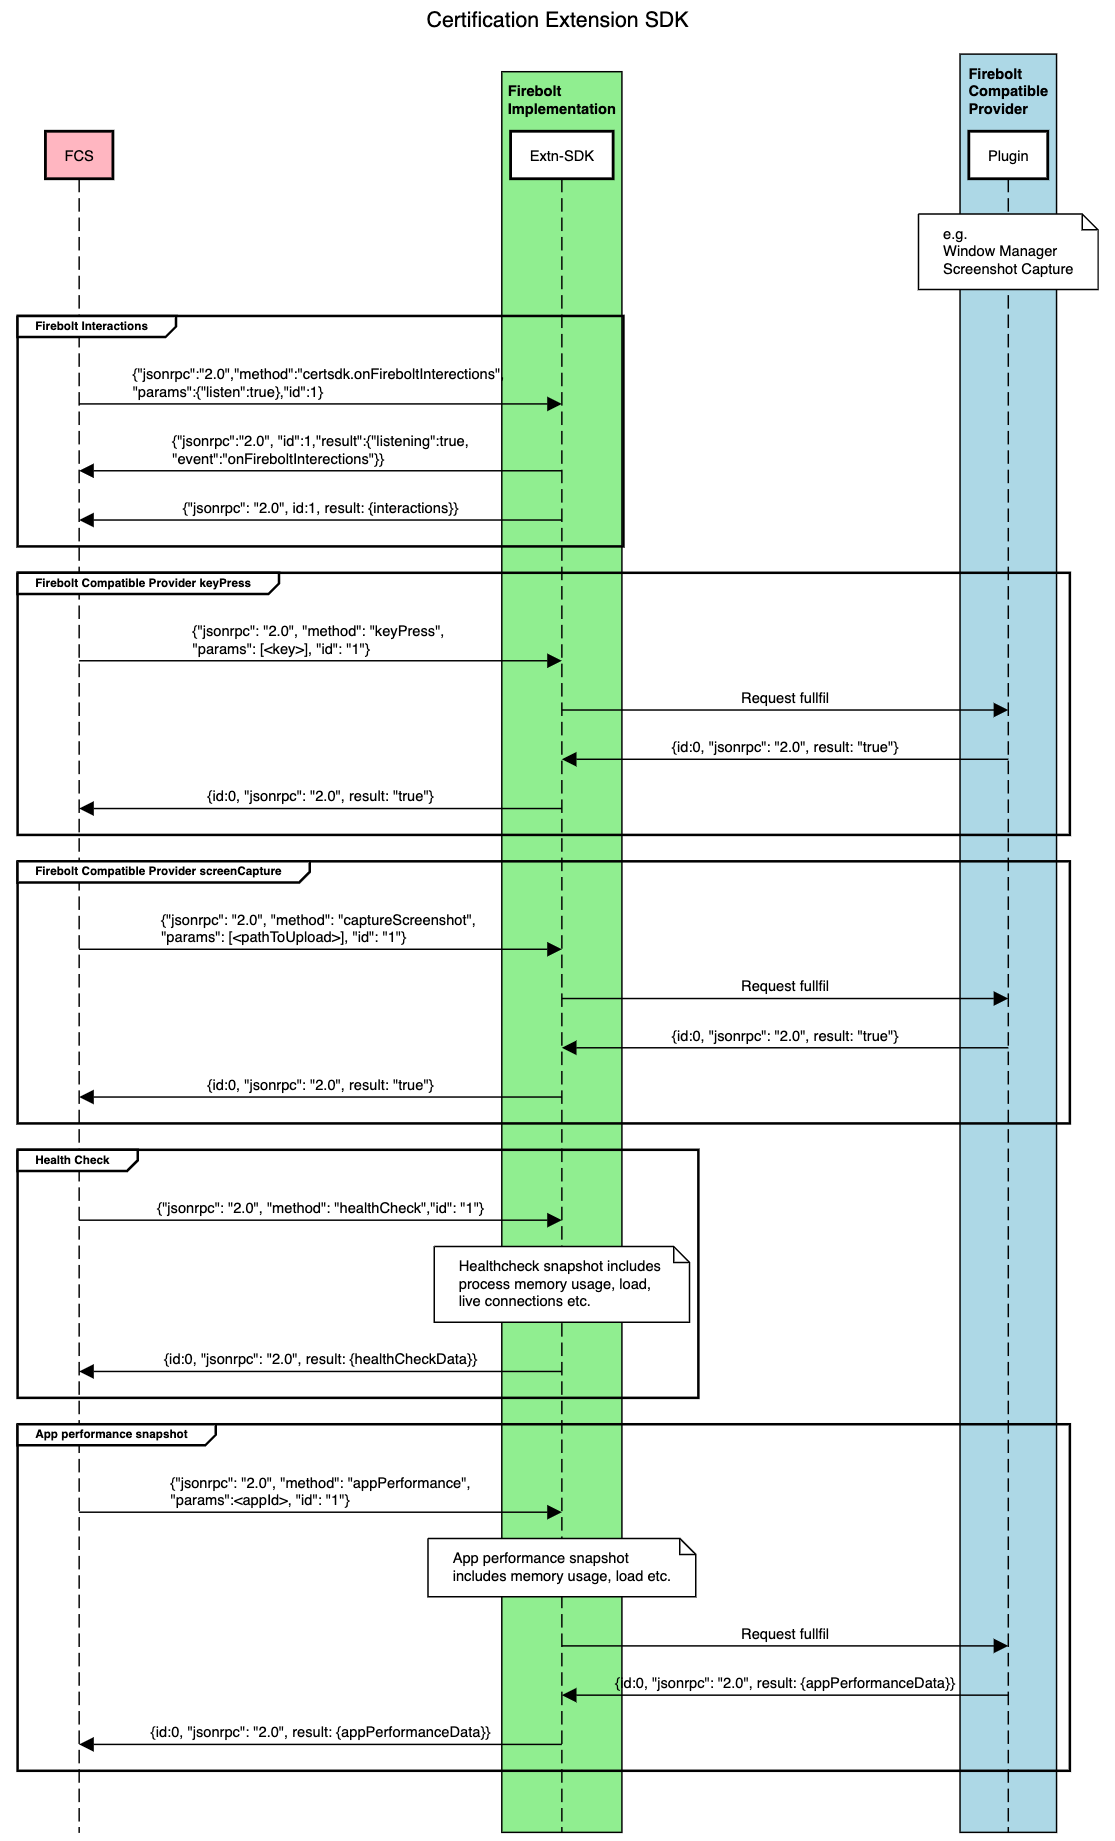
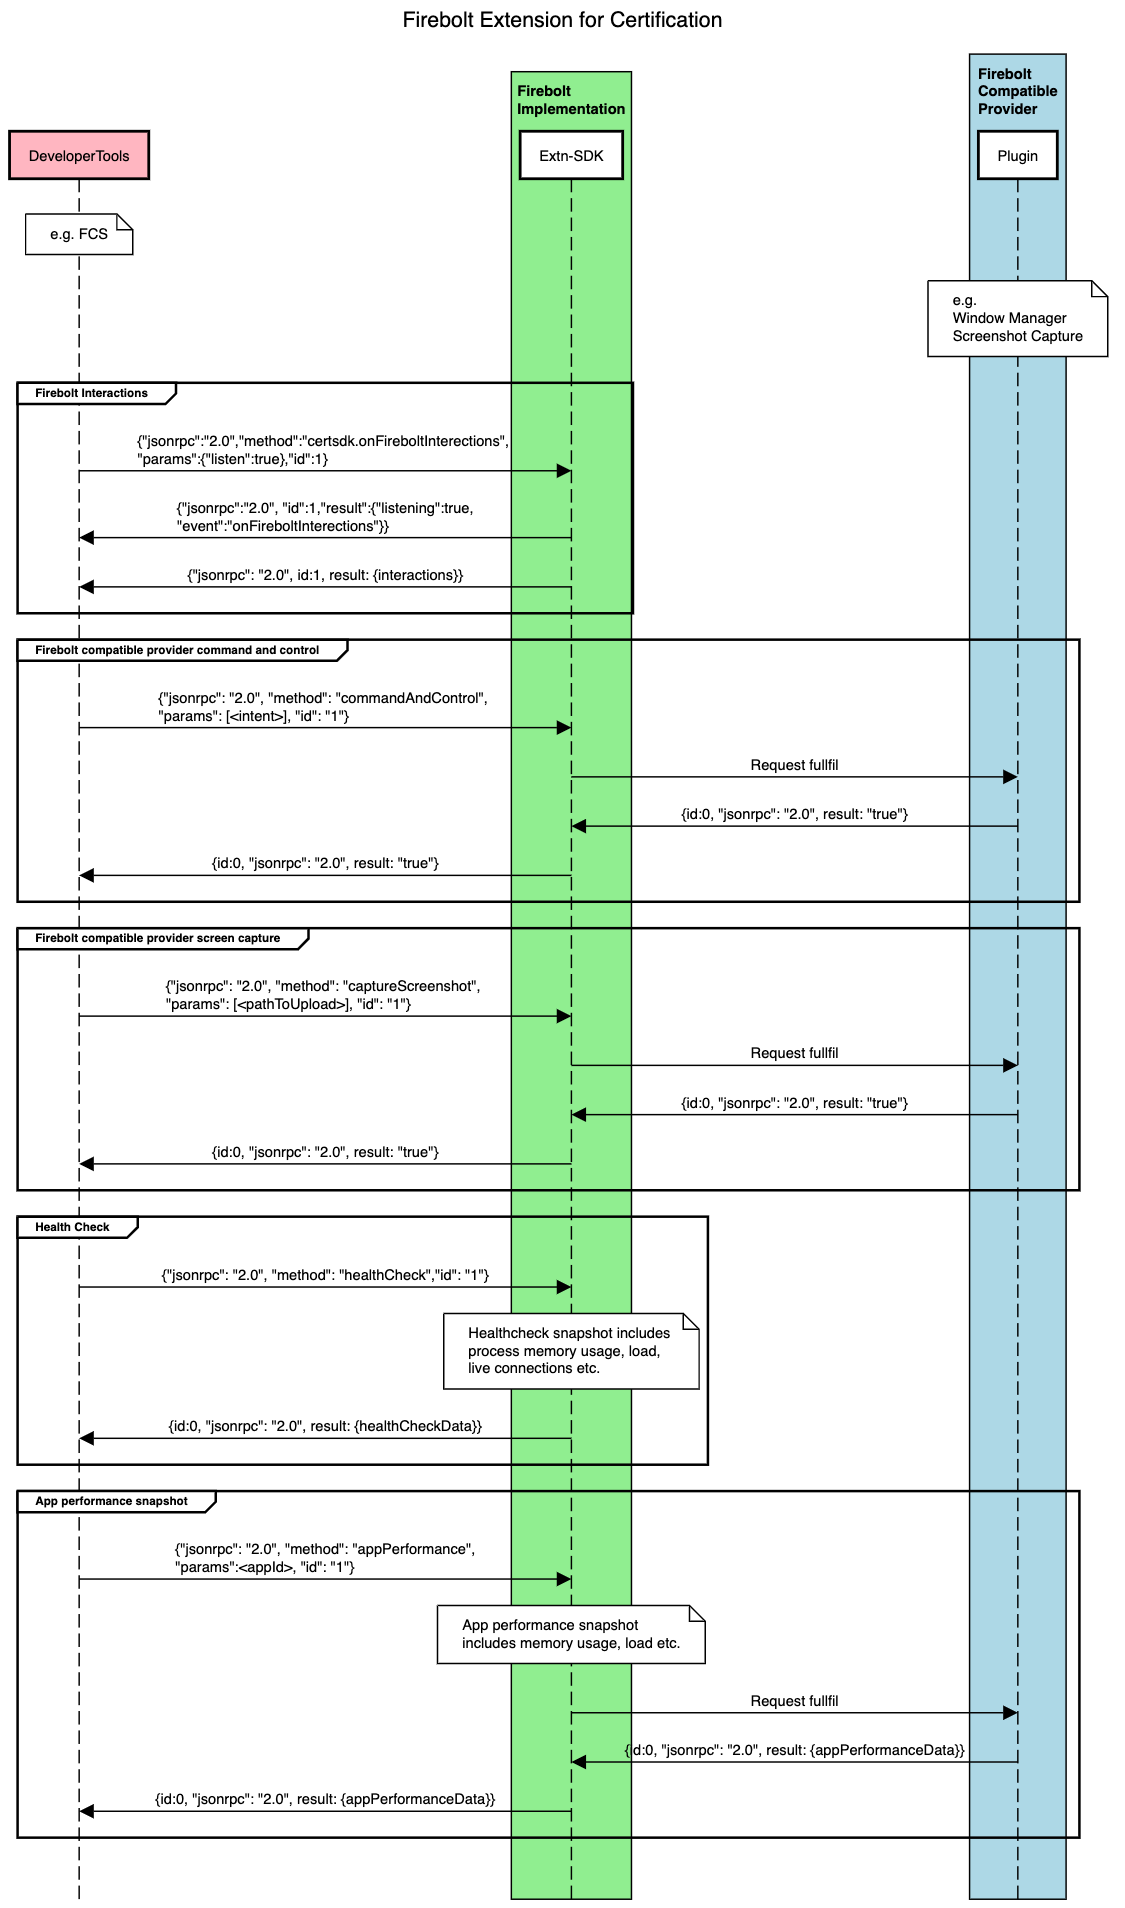
Updated HLA

Changed region(s): [[0.0, 0.0, 1.0, 1.0]]

diff --git a/requirements/specifications/extnSDK/certification-extension-sdk.md b/requirements/specifications/extnSDK/certification-extension-sdk.md
@@ -1,11 +1,11 @@
-# Certification Extension SDK
+# Firebolt Extension for Certification
 
 Document Status: Proposed Specification 
 
 See [Firebolt Requirements Governance](../../governance.md) for more info.
 
 ## 1. Overview
-Document contains the  details around Certification Extension SDK (will be called as CE-SDK in rest of the document) and HLA for the same.
+Document contains the  details around Firebolt Extension for Certification (will be called as FEC in rest of the document) and HLA for the same.
 
 
 ## 2. Table of Contents
@@ -13,7 +13,7 @@ Document contains the  details around Certification Extension SDK (will be calle
 - [HLA](#hla)
 
 ## 3. Requirements
-CE-SDK would required below use cases to adhere.
+FEC would required below use cases to adhere.
 
   - <b>Firebolt Interactions</b>
     - Ability to fetch request and responses coming to/from platform
@@ -25,9 +25,9 @@ CE-SDK would required below use cases to adhere.
     - Snapshot of the performance for app such as load, memory etc.
     - Capability: <b>xrn:firebolt:capability:cert-extension:appperformancedata</b>
   - <b>Firebolt compatible provider calls</b>
-    - <b>Keypress</b>
-      - To navigate on the screen
-      - Capability: <b>xrn:firebolt:capability:cert-extension:keypress</b>
+    - <b>Command and Control</b>
+      - To control the firebolt compatible device e.g. interaction on screen, media control
+      - Capability: <b>xrn:firebolt:capability:cert-extension:commandandcontrol</b>
     - <b>Screenshot</b>
       - Fetch and upload the screenshot
       - Capability: <b>xrn:firebolt:capability:cert-extension:screencapture</b>
